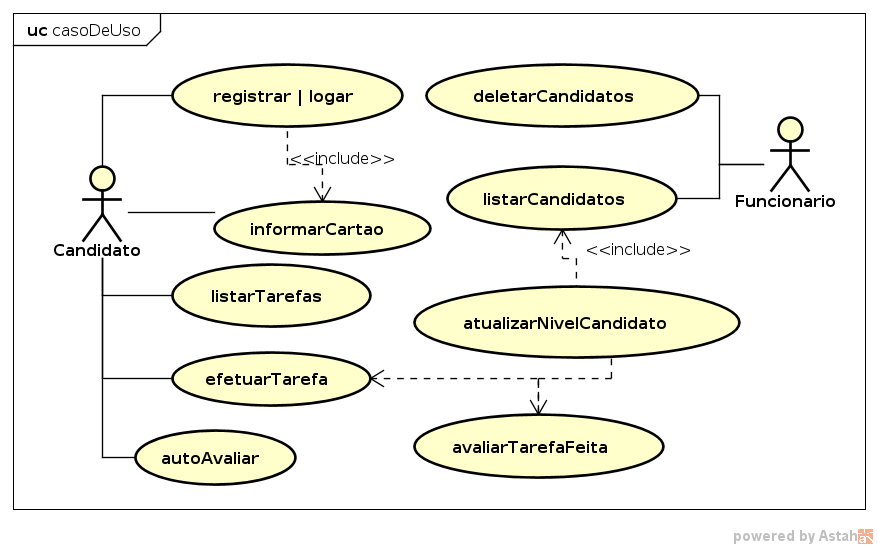
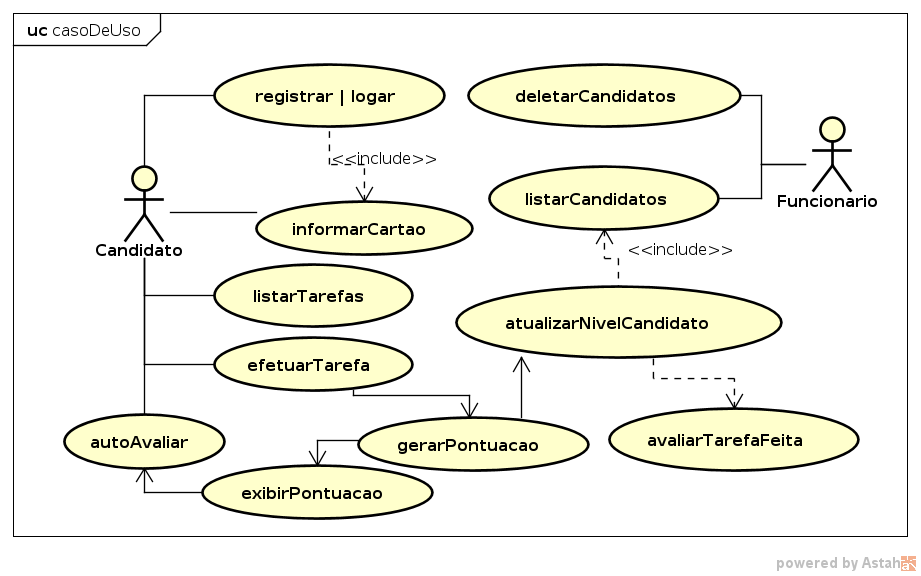
feito: Adicionando nova abstração dos diagramas caso de uso e classes -> entidades e alterando o readme na parte de versão da abstração dos diagrams

diff --git a/README.md b/README.md
@@ -86,8 +86,8 @@ mvn spring-boot:run
 
 * [Postman Collection](https://www.getpostman.com/collections/18aa0b386ab87381d9e9) - online, formato json
 * [Postman Collection](https://github.com/gilton/candidaturas/tree/master/postman) - offline, formato txt
-* [Diagrama de Caso de Uso](https://github.com/gilton/candidaturas/blob/master/diagrams/UseCase0.png) - abstração versão 01
-* [Diagrama de Classe](https://github.com/gilton/candidaturas/blob/master/diagrams/classDiagram.png) - abstração versão 01
+* [Diagrama de Caso de Uso](https://github.com/gilton/candidaturas/blob/master/diagrams/UseCase0.png) - abstração versão 02
+* [Diagrama de Classe](https://github.com/gilton/candidaturas/blob/master/diagrams/classDiagram.png) - abstração versão 02
 * [Swagger](http://localhost:8080/swagger-ui.html) - `http://localhost:8080/swagger-ui.html`- Documentação e Testes **[não testado]**
 
 
